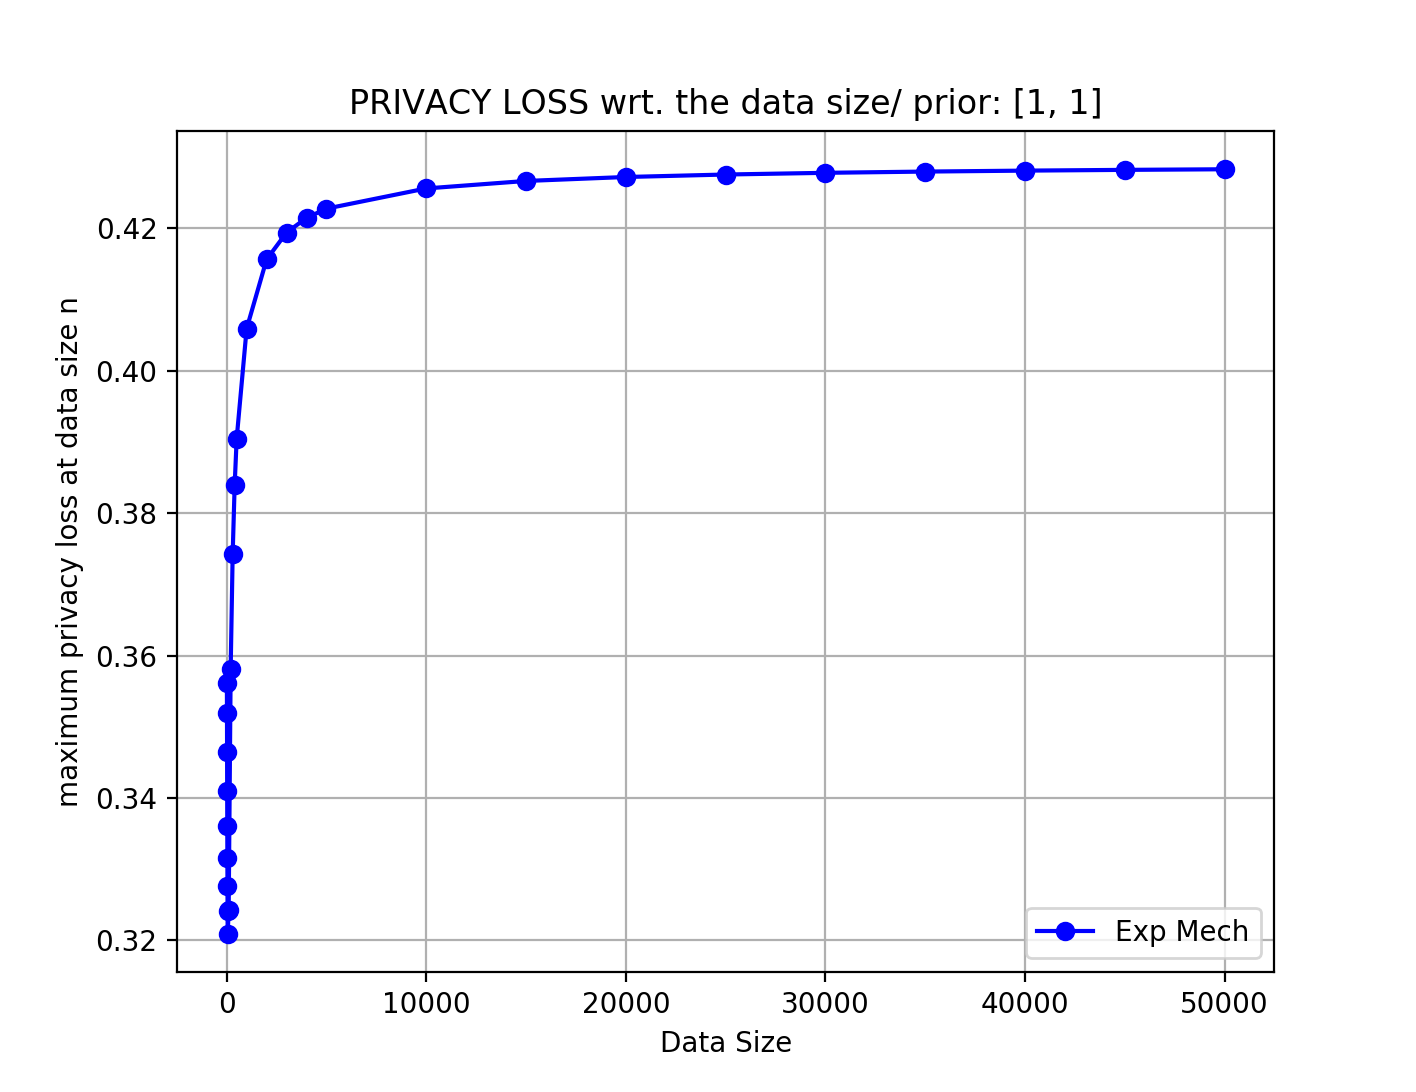
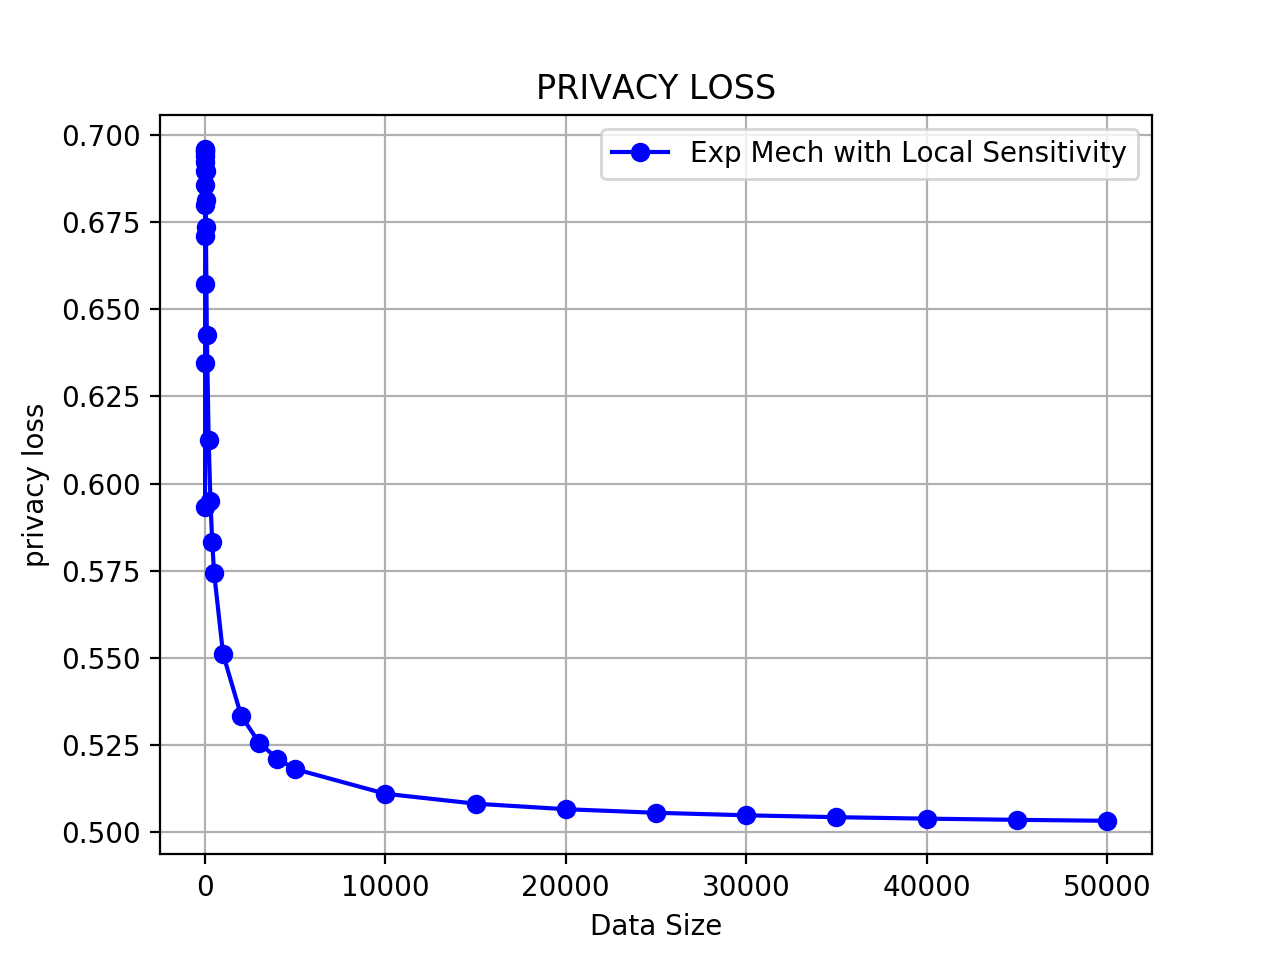
update privacy loss codes

diff --git a/codes/privacyloss.py b/codes/privacyloss.py
@@ -18,151 +18,12 @@ from dpbayesinfer_Betabinomial import BayesInferwithDirPrior
 
 
 
-
-
-def privacy_loss(sample_sizes,epsilon,delta,prior):
-	epsilons = []
-
-	#########################################################################################################################
-	#MAX PRIVACY LOSS UNDER SIZE N
-	#########################################################################################################################			
-	for n in sample_sizes:
-		Bayesian_Model = BayesInferwithDirPrior(prior, n, epsilon, delta)
-		Bayesian_Model._set_candidate_scores()
-		
-		candidates = Bayesian_Model._candidates
-		#########################################################################################################################
-		#ALL POSSIBLE DATA SETS UNDER SIZE N
-		for i in range(len(candidates)):
-			candidates[i]._minus(prior)
-
-		candidates = [dirichlet([0,n]), dirichlet([1,n-1]),dirichlet([2,n-2]), 
-		dirichlet([3, n - 3])]
-		#########################################################################################################################
-		#MAX PRIVACY LOSS UNDER SIZE N
-		#########################################################################################################################			
-		privacyloss_of_n = 0.0
-		pair_of_n = []
-		for C in candidates:
-			#########################################################################################################################
-			#GET THE ADJACENT DATA SET OF DATA SET C			
-			C_adj = deepcopy(C._alphas)
-			if C_adj[0] == 0:
-				C_adj[0] += 1
-				C_adj[1] -= 1
-			else:
-				C_adj[0] -= 1
-				C_adj[1] += 1
-
-			#########################################################################################################################
-			#GET THE PRIVACY LOSS UNDER TWO ADJACENT DATA SET C	AND 		
-			loss = privacy_loss_x1_x2(n,epsilon,delta,prior,C._alphas,C_adj)
-			if privacyloss_of_n < loss:
-				privacyloss_of_n = loss
-				pair_of_n = [C._alphas,C_adj]
-
-		print " Practical Privacy Loss:", str(privacyloss_of_n), str(pair_of_n)
-		epsilons.append(privacyloss_of_n)
-
-	#########################################################################################################################
-	#PLOT THE PRIVACY LOSS UNDER DIFFERENT DATA SIZE
-	#########################################################################################################################			
-	plt.figure()
-	plt.title(("PRIVACY LOSS wrt. the data size/ prior: " + str(prior._alphas)))
-	plt.plot(sample_sizes,epsilons, 'bo-', label=('Exp Mech with Local Sensitivity'))
-	plt.xlabel("Data Size")
-	plt.ylabel("maximum privacy loss at data size n")
-	plt.grid()
-	plt.legend(loc='best')
-	plt.show()
-
-
-
-def privacy_loss_x1_x2(sample_size,epsilon,delta,prior,x1, x2):
-
-	print "Adjacent data set:", x1, x2
-	#########################################################################################################################
-	#OBTAIN DECOMPOSED OUTPUTTING PROBABILITIES UNDER TWO ADJACENT DATA SET
-	#########################################################################################################################	
-	x1_nomalizer, x1_probabilities = decomposed_probability_values(sample_size,epsilon,delta,prior,x1)
-	x2_nomalizer, x2_probabilities = decomposed_probability_values(sample_size,epsilon,delta,prior,x2)
-
-	print "NL(x1) =", x1_nomalizer, "NL(x2) =", x2_nomalizer
-	print "NL(x2)/NL(x1) = exp(", math.log(x2_nomalizer / x1_nomalizer),")"
-
-	epsilons = {}
-	for key, item in x1_probabilities.items():
-		i = x2_probabilities[key]
-		epsilons[key] = math.log(item / i)
-		print "nominator(x1," + key + ") =", item, "; nominator(x2," + key + ") =", i
-		print "nominator(x1,r)/nominator(x2,r) = exp(", epsilons[key],")"
-
-	sorted_epsilons = sorted(epsilons.items(), key=operator.itemgetter(1))
+#########################################################################################################################
+#OBTAIN OUTPUTTING PROBABILITIES OF ONE DATA SET
+#########################################################################################################################	
+def probability_values(datasize,epsilon,delta,prior,observation):
 	
-	
-	# return max(sorted_epsilons[-1][1], abs(sorted_epsilons[0][1]))
-	#########################################################################################################################
-	#OBTAIN OUTPUTTING PROBABILITIES UNDER TWO ADJACENT DATA SET
-	#########################################################################################################################	
-	x1_probabilities = probability_values(sample_size,epsilon,delta,prior,x1)
-	x2_probabilities = probability_values(sample_size,epsilon,delta,prior,x2)
-
-	epsilons = {}
-	for key, item in x1_probabilities.items():
-		i = x2_probabilities[key]
-		epsilons[key] = math.log(item / i)
-
-	sorted_epsilons = sorted(epsilons.items(), key=operator.itemgetter(1))
-	
-	#########################################################################################################################
-	#PLOT THE PRIVACY LOSS FOR 2 ADJACENT DATA SETS
-	#########################################################################################################################	
-	for key,value in sorted_epsilons:
-		print "Pr[ ( M(x1) = " + key + ") / ( M(x2) = " + key + ") ] = exp(" + str(value) + ")"
-
-	return max(sorted_epsilons[-1][1], abs(sorted_epsilons[0][1]))
-
-
-def decomposed_probability_values(sample_size,epsilon,delta,prior,observation):
-	
-	Bayesian_Model = BayesInferwithDirPrior(prior, sample_size, epsilon, delta)
-	Bayesian_Model._set_observation(observation)
-
-	Bayesian_Model._set_candidate_scores()
-	Bayesian_Model._set_local_sensitivities()
-	nomalizer = Bayesian_Model._set_up_exp_mech_with_alpha_SS()
-	
-
-	probabilities_exp = {}
-
-	for i in range(len(Bayesian_Model._candidates)):
-		z = Bayesian_Model._candidates[i]
-		probabilities_exp[str(z._alphas)] = nomalizer * Bayesian_Model._alpha_SS_probabilities[i]
-	
-	return nomalizer, probabilities_exp
-
-def nomalizer_study(datasizes, epsilon, delta, prior):
-	loss_in_nomalizer = []
-	for datasize in datasizes:
-		x1_nomalizer, probabilities = decomposed_probability_values(datasize,epsilon,delta,prior,[datasize-1,1])
-		x2_nomalizer, probabilities = decomposed_probability_values(datasize,epsilon,delta,prior,[datasize,0])
-		loss_in_nomalizer.append(math.log(x1_nomalizer/x2_nomalizer))
-
-	#########################################################################################################################
-	#PLOT THE PRIVACY LOSS UNDER DIFFERENT DATA SIZE
-	#########################################################################################################################			
-	plt.figure()
-	plt.title(("PRIVACY LOSS in Denominator"))
-	plt.plot(datasizes,loss_in_nomalizer, 'bo-', label=('Exp Mech with Local Sensitivity'))
-	plt.xlabel("Data Size")
-	plt.ylabel(r"privacy loss in Denominator ($log(\frac{NL(n-1,1)}{NL(n,0)})$)")
-	plt.grid()
-	plt.legend(loc='best')
-	plt.show()
-
-def probability_values(sample_size,epsilon,delta,prior,observation):
-	
-	Bayesian_Model = BayesInferwithDirPrior(prior, sample_size, epsilon, delta)
+	Bayesian_Model = BayesInferwithDirPrior(prior, datasize, epsilon, delta)
 	Bayesian_Model._set_observation(observation)
 
 	Bayesian_Model._set_candidate_scores()
@@ -177,6 +38,163 @@ def probability_values(sample_size,epsilon,delta,prior,observation):
 		probabilities_exp[str(z._alphas)] = Bayesian_Model._alpha_SS_probabilities[i]
 	
 	return probabilities_exp
+
+#########################################################################################################################
+#OBTAIN DECOMPOSED OUTPUTTING PROBABILITIES OF ONE DATA SET
+#########################################################################################################################	
+def decomposed_probability_values(datasize,epsilon,delta,prior,observation):
+	
+	Bayesian_Model = BayesInferwithDirPrior(prior, datasize, epsilon, delta)
+	Bayesian_Model._set_observation(observation)
+
+	Bayesian_Model._set_candidate_scores()
+	Bayesian_Model._set_local_sensitivities()
+	nomalizer = Bayesian_Model._set_up_exp_mech_with_alpha_SS()
+	
+	probabilities_exp = {}
+
+	for i in range(len(Bayesian_Model._candidates)):
+		z = Bayesian_Model._candidates[i]
+		probabilities_exp[str(z._alphas)] = nomalizer * Bayesian_Model._alpha_SS_probabilities[i]
+	
+	return nomalizer, probabilities_exp
+
+#########################################################################################################################
+#OBTAIN THE OUTPUTTING PROBABILITIES OF A PAIR OF ADJACENT DATA SET
+#########################################################################################################################	
+def privacy_loss_one_pair(datasize,epsilon,delta,prior, x1, x2):
+
+	x1_probabilities = probability_values(datasize,epsilon,delta,prior,x1)
+	x2_probabilities = probability_values(datasize,epsilon,delta,prior,x2)
+
+	epsilons = {}
+	for key, item in x1_probabilities.items():
+		i = x2_probabilities[key]
+		epsilons[key] = math.log(item / i)
+
+	return sorted(epsilons.items(), key=operator.itemgetter(1))
+
+
+#########################################################################################################################
+#OBTAIN DECOMPOSED OUTPUTTING PROBABILITIES OF A PAIR OF ADJACENT DATA SET - NUMERATOR
+#########################################################################################################################	
+def numerator_privacy_loss_one_pair(datasize,epsilon,delta,prior, x1, x2):
+
+	print "Adjacent data set:", x1, x2
+
+	x1_nomalizer, x1_probabilities = decomposed_probability_values(datasize,epsilon,delta,prior,x1)
+	x2_nomalizer, x2_probabilities = decomposed_probability_values(datasize,epsilon,delta,prior,x2)
+
+	epsilons = {}
+	for key, item in x1_probabilities.items():
+		i = x2_probabilities[key]
+		epsilons[key] = abs(math.log(item / i))
+
+	return sorted(epsilons.items(), key=operator.itemgetter(1))
+
+#########################################################################################################################
+#OBTAIN DECOMPOSED OUTPUTTING PROBABILITIES OF A PAIR OF ADJACENT DATA SET - NUMERATOR
+#########################################################################################################################	
+def denumerator_privacy_loss_one_pair(datasize,epsilon,delta,prior, x1, x2):
+
+	print "Adjacent data set:", x1, x2, "denumerator"
+
+	x1_nomalizer, x1_probabilities = decomposed_probability_values(datasize,epsilon,delta,prior,x1)
+	x2_nomalizer, x2_probabilities = decomposed_probability_values(datasize,epsilon,delta,prior,x2)
+	print "NL(x1) =", x1_nomalizer, "NL(x2) =", x2_nomalizer
+	print "NL(x2)/NL(x1) = exp(", math.log(x2_nomalizer / x1_nomalizer),")"
+
+	return math.log(x2_nomalizer / x1_nomalizer)
+
+
+
+#########################################################################################################################
+#PLOT THE PRIVACY LOSS UNDER DIFFERENT DATA SIZE
+#########################################################################################################################			
+def plot_privacyloss(x, y, label):
+	plt.figure()
+	plt.title(("PRIVACY LOSS" + label))
+	plt.plot(x,y, 'bo-', label=('Exp Mech with Local Sensitivity'))
+	plt.xlabel("Data Size")
+	plt.ylabel(r"privacy loss" + label)
+	plt.grid()
+	plt.legend(loc='best')
+	plt.show()
+
+
+def denumerator_study(datasizes, epsilon, delta, prior):
+	loss_in_nomalizer = []
+	for datasize in datasizes:
+		loss_in_nomalizer.append(denumerator_privacy_loss_one_pair(datasize,epsilon,delta,prior,[datasize-1,1],[datasize,0]))
+
+	plot_privacyloss(datasizes, loss_in_nomalizer, "in denumerator")
+
+def numerator_study(datasizes, epsilon, delta, prior):
+	loss_in_numerator = []
+	for datasize in datasizes:
+		loss = denumerator_privacy_loss_one_pair(datasize,epsilon,delta,prior,[datasize-1,1],[datasize,0])
+		loss_in_numerator.append(loss[-1][1])
+
+	plot_privacyloss(datasizes, loss_in_numerator, "in numerator")
+
+
+
+def privacy_loss_of_size_n(prior, datasize, epsilon, delta):
+	Bayesian_Model = BayesInferwithDirPrior(prior, datasize, epsilon, delta)
+	Bayesian_Model._set_candidate_scores()
+		
+	candidates = Bayesian_Model._candidates
+		#########################################################################################################################
+		#ALL POSSIBLE DATA SETS UNDER SIZE N
+	for i in range(len(candidates)):
+		candidates[i]._minus(prior)
+
+	candidates = [c._alphas for c in candidates]
+
+	privacyloss_of_n = 0.0
+	pair_of_n = []
+
+	candidates = [[datasize-3,3],[datasize-2,2],[datasize-1,1],[datasize, 0]]
+
+	for C in candidates:
+	#########################################################################################################################
+	#GET THE ADJACENT DATA SET OF DATA SET C			
+		C_adj = deepcopy(C)
+		if C_adj[0] == 0:
+			C_adj[0] += 1
+			C_adj[1] -= 1
+		elif C_adj[0] > 0:
+			C_adj[0] -= 1
+			C_adj[1] += 1
+		else:
+			continue
+
+			#########################################################################################################################
+			#GET THE PRIVACY LOSS UNDER TWO ADJACENT DATA SET C	AND 		
+		loss = privacy_loss_one_pair(datasize,epsilon,delta,prior,C,C_adj)
+		if privacyloss_of_n < loss[-1][1]:
+			privacyloss_of_n = loss[-1][1]
+			pair_of_n = [C,C_adj]
+
+	return privacyloss_of_n, pair_of_n
+
+def privacy_loss(datasizes,epsilon,delta,prior):
+	epsilons = []
+	#########################################################################################################################
+	#MAX PRIVACY LOSS UNDER SIZE N
+	#########################################################################################################################			
+	for n in datasizes:
+		privacyloss_of_n, pair_of_n = privacy_loss_of_size_n(prior, n, epsilon, delta)
+
+		print " Practical Privacy Loss:", str(privacyloss_of_n), str(pair_of_n)
+		epsilons.append(privacyloss_of_n)
+
+	#########################################################################################################################
+	#PLOT THE PRIVACY LOSS UNDER DIFFERENT DATA SIZE
+	#########################################################################################################################			
+	plot_privacyloss(datasizes,epsilons, "")
+
+
 
 
 
@@ -197,17 +215,14 @@ def gen_priors(r, step, d):
 if __name__ == "__main__":
 
 	datasize = 20
-	epsilon = 2.0
+	epsilon = 1.0
 	delta = 0.00000001
 	prior = dirichlet([1,1])
 	dataset = [50,50]
 	epsilons = numpy.arange(0.1, 2, 0.1)
-	datasizes = gen_datasizes((2,12),1) + gen_datasizes((15,50),10) + gen_datasizes((100,500), 100) + gen_datasizes((1000,5000),1000)  + gen_datasizes((10000,50000),5000)# #[300] #[8,12,18,24,30,36,42,44,46,48]#,50,52,54,56,58,60,62,64,66,68,70,72,74,76,78,80]
+	datasizes = gen_datasizes((2,12),1) + gen_datasizes((15,50),10) + gen_datasizes((100,500), 100) + gen_datasizes((1000,5000),1000)  + gen_datasizes((10000,50000),10000)# #[300] #[8,12,18,24,30,36,42,44,46,48]#,50,52,54,56,58,60,62,64,66,68,70,72,74,76,78,80]
 	percentage = [0.5,0.5]
 	datasets = gen_datasets(percentage, datasizes)
 	priors = [dirichlet([1,1])] + gen_priors([5,20], 5, 2) + gen_priors([40,100], 20, 2) + gen_priors([150,300], 50, 2) + gen_priors([400,400], 50, 2)
-
-	# privacy_loss_x1_x2(datasize, epsilon, delta, prior, [3,3],[2,4])
-	# privacy_loss(datasizes,epsilon,delta,prior)	
-	nomalizer_study(datasizes,epsilon,delta,prior)
+	privacy_loss(datasizes,epsilon,delta,prior)
 
